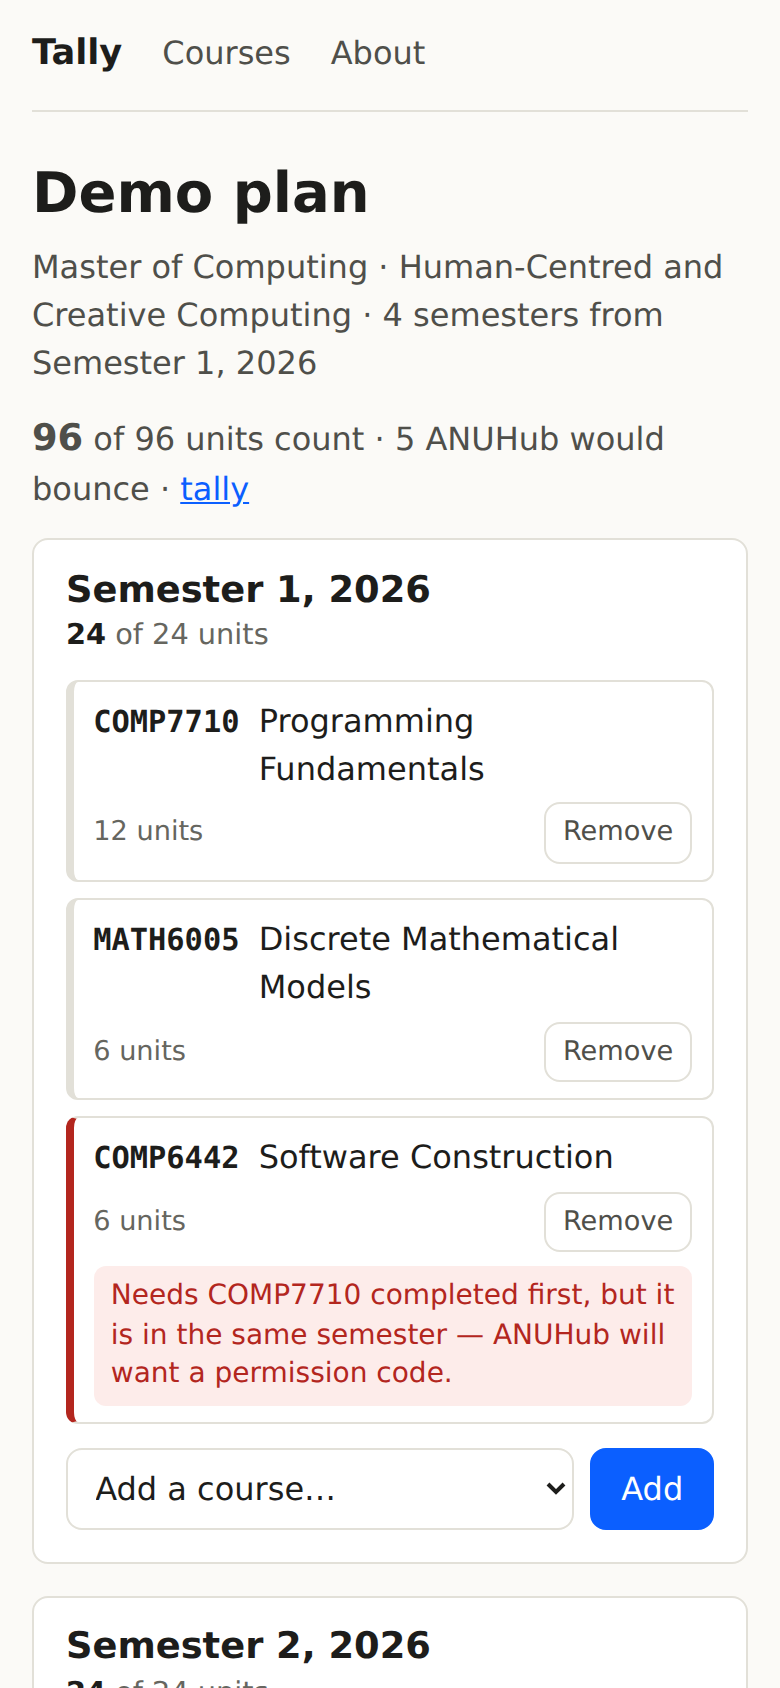
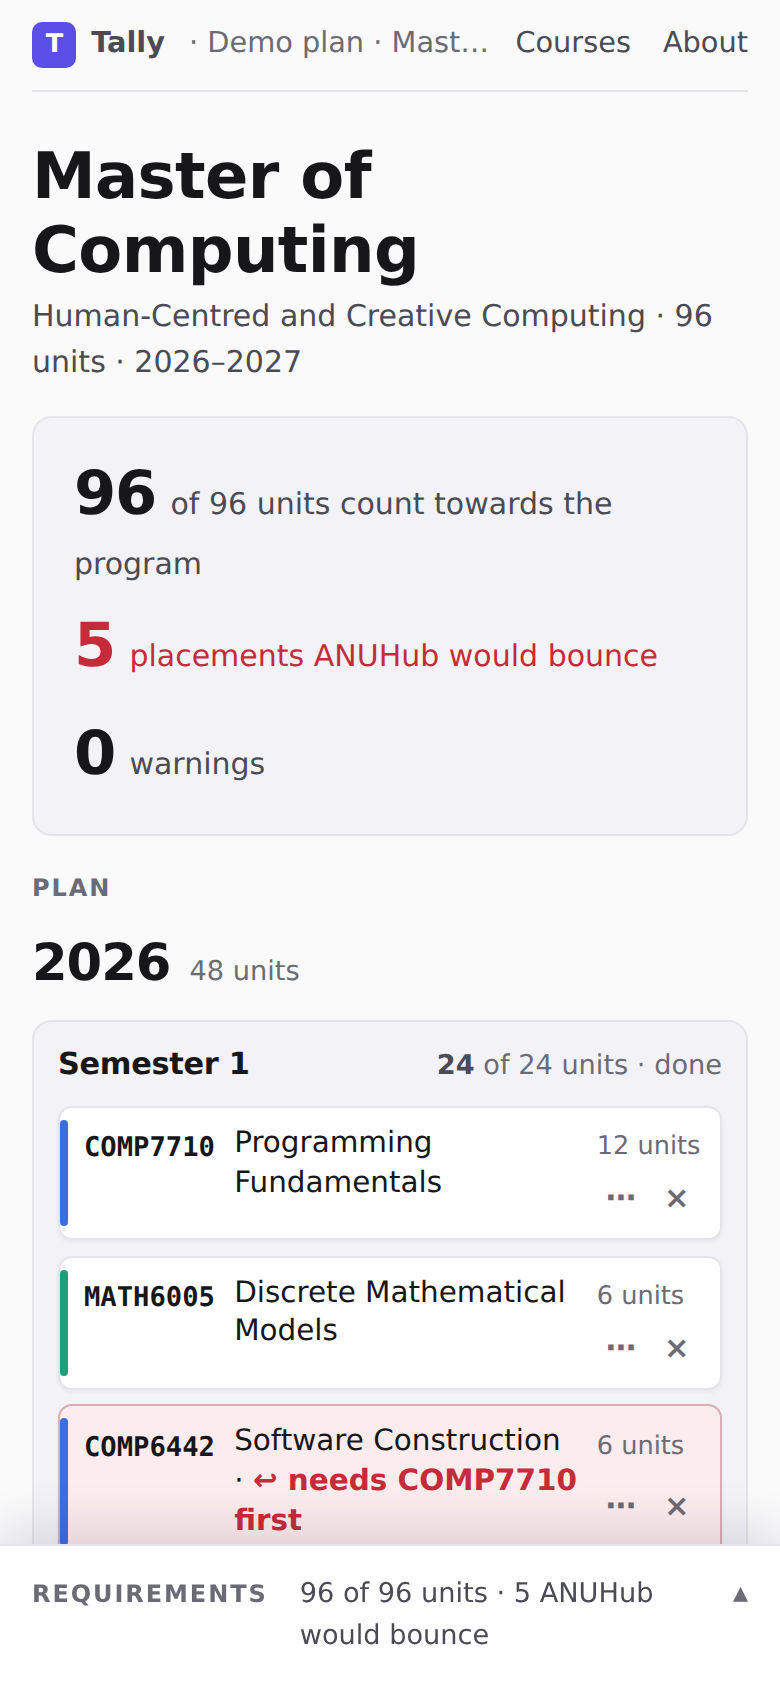
Bring the account up to date with the redesign
New screenshots of the demo plan at both viewports, the phone one with the requirements sheet folded and unfolded; README says what the card colours mean; PROCESS.md tells the redesign in one paragraph, with the prompt that started it, and stays under 300 words.

diff --git a/PROCESS.md b/PROCESS.md
@@ -4,21 +4,19 @@
 
 Tally, a Master of Computing study planner that says what ANUHub would say
 before enrolment day and tallies a plan against the program's requirement
-lines. `README.md` says what good means here; this is how it went.
+lines. `README.md` says what good means here.
 
 ## How I got here
 
-I didn't let the agent touch the repo until there was a plan and a harness.
-The harness came first
-([`f1cf8a2`](https://github.com/comp4020-agentic-coding-studio/comp4020-crit7-Ray0766/commit/f1cf8a2)),
-and its two rules that mattered most were "never invent a requisite" and "the
+The agent didn't touch the repo until there was a plan and a harness
+([`f1cf8a2`](https://github.com/comp4020-agentic-coding-studio/comp4020-crit7-Ray0766/commit/f1cf8a2));
+its two rules that mattered most were "never invent a requisite" and "the
 planner never refuses a real course".
 
-> 先只出方案和 CLAUDE.md，别动仓库
-> (plan and CLAUDE.md first; leave the repo alone)
+> 先只出方案和 CLAUDE.md，别动仓库 (plan and CLAUDE.md first; leave the repo alone)
 
-The schema went in with migration 0001, checked by booting the built server
-on a copy of a database still holding guestbook rows
+Migration 0001 was checked by booting the built server on a copy of a
+database still holding guestbook rows
 ([`35c1894`](https://github.com/comp4020-agentic-coding-studio/comp4020-crit7-Ray0766/commit/35c1894)).
 The transcript of Programs & Courses kept its oddities on purpose — COMP8830
 still names COMP8260, COMP8600 is "not checked" — and its test was broken
@@ -32,13 +30,22 @@ then met
 Every rule's sentinel was seen red under a deliberate break
 ([`64e7f93`](https://github.com/comp4020-agentic-coding-studio/comp4020-crit7-Ray0766/commit/64e7f93)).
 
-Two corrections came from looking, not from tests. The tally on the demo plan
-read 90 of 96 and was right: the program takes COMP8715 twice and my unique
-index forbade it, so migration 0003 dropped the index
+Two corrections came from looking, not from tests. The demo plan's tally read
+90 of 96 and was right: the program takes COMP8715 twice and my unique index
+forbade it, so migration 0003 dropped it
 ([`dc0e222`](https://github.com/comp4020-agentic-coding-studio/comp4020-crit7-Ray0766/commit/dc0e222)).
-The first real-browser render showed titles wrapping under the remove buttons
+The first real-browser render showed titles wrapping under the buttons
 ([`4f956be`](https://github.com/comp4020-agentic-coding-studio/comp4020-crit7-Ray0766/commit/4f956be)),
-and axe with layout found text at 4.26:1 that jsdom's floor had passed
+and axe with layout found 4.26:1 text jsdom had passed
 ([`9b0e48e`](https://github.com/comp4020-agentic-coding-studio/comp4020-crit7-Ray0766/commit/9b0e48e)).
+
+The first version worked and looked plain, and I said so. The agent opened
+Cornell CoursePlan and UNSW Circles in my browser and wrote a brief around the
+demo plan's real data; Claude Design drew the sheet; the page was rebuilt after
+it — category colours on the cards, short flags with the sentences in a list
+below, years as rows
+([`aef324b`](https://github.com/comp4020-agentic-coding-studio/comp4020-crit7-Ray0766/commit/aef324b)).
+
+> 我认为这个质量完全不行。你先看看别人好的选课好的 UI 是怎么样的 (this won't do; look at the good planners first)
 
 ![The demo plan at 390×844, with a flagged placement](public/demo-390x844.png)

diff --git a/README.md b/README.md
@@ -40,6 +40,12 @@ Two assumptions are stated on the page: a course's offering pattern is 2026's
 and is assumed to repeat, and requisites about which program you are in are
 taken as met, because every plan here is a Master of Computing plan.
 
+Every course card carries the colour of the requirement it counts towards —
+compulsory, foundation, capstone, the specialisation's core or electives,
+electives — and a grey bar when nothing counts it, so a semester reads at a
+glance. A flagged card says a few words; the full sentence, in ANUHub's terms,
+is in the list under the plan.
+
 What is enforced, in `spec/`: a plan persists across a reload; a real course is
 never refused; every rule (requisite order, the concurrent case, incompatibility,
 offerings, load, each kind of requirement line) has a test that was seen red
